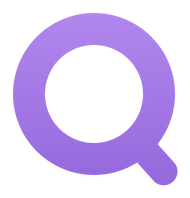
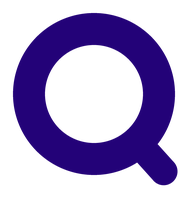
Set the landing page and app in Inconsolata and match the Sequence Q to Care.
The Q is the same size as the other letters and the same deep purple as Care in the Carescope logo.

diff --git a/apps/designer/src/pages/landing.css b/apps/designer/src/pages/landing.css
@@ -12,8 +12,8 @@
   --lp-navy: #0b1f44;
   --lp-green: #16a34a;
   --lp-green-deep: #15803d;
-  --lp-font: "Source Sans 3", "IBM Plex Sans", sans-serif;
-  --lp-display: "Sora", "Source Sans 3", sans-serif;
+  --lp-font: "Inconsolata", ui-monospace, monospace;
+  --lp-display: "Inconsolata", ui-monospace, monospace;
   --lp-gutter: 2.25rem;
   --lp-measure: 1250px;
   max-width: var(--lp-measure);
@@ -2925,7 +2925,7 @@
 }
 
 .lp-capability-index {
-  font-family: "IBM Plex Mono", monospace;
+  font-family: var(--lp-font);
   font-size: 0.64rem;
   font-weight: 600;
   color: var(--lp-blue);
@@ -3651,7 +3651,7 @@ img.lp-logo-sequence {
 .lp-core-chrome span {
   margin-left: auto;
   color: #8b919a;
-  font-family: Inter, "Source Sans 3", sans-serif;
+  font-family: var(--lp-font);
   font-size: 0.72rem;
   font-weight: 650;
   letter-spacing: 0.14em;
@@ -3665,7 +3665,7 @@ img.lp-logo-sequence {
 .lp-core-kicker {
   margin: 0;
   color: #8b919a;
-  font-family: Inter, "Source Sans 3", sans-serif;
+  font-family: var(--lp-font);
   font-size: 0.72rem;
   font-weight: 650;
   letter-spacing: 0.16em;
@@ -3675,7 +3675,7 @@ img.lp-logo-sequence {
 .lp-core-body h2 {
   margin: 0.32rem 0 0;
   color: #16181d;
-  font-family: Inter, "Sora", sans-serif;
+  font-family: var(--lp-font);
   font-size: clamp(2.05rem, 3.5vw, 3rem);
   font-weight: 650;
   letter-spacing: -0.048em;
@@ -3688,7 +3688,7 @@ img.lp-logo-sequence {
   gap: 0.3rem 0.15rem;
   margin: 0.6rem 0 0;
   color: #615d59;
-  font-family: Inter, "Source Sans 3", sans-serif;
+  font-family: var(--lp-font);
   font-size: 0.98rem;
   letter-spacing: -0.015em;
 }
@@ -3709,7 +3709,7 @@ img.lp-logo-sequence {
 
 .lp-core-stages li {
   color: #a39e98;
-  font-family: Inter, "Source Sans 3", sans-serif;
+  font-family: var(--lp-font);
   font-size: 0.8rem;
   font-weight: 600;
   letter-spacing: -0.015em;
@@ -3855,7 +3855,7 @@ img.lp-logo-sequence {
 .lp-core-float span {
   display: block;
   color: #8b919a;
-  font-family: Inter, "Source Sans 3", sans-serif;
+  font-family: var(--lp-font);
   font-size: 0.66rem;
   font-weight: 650;
   letter-spacing: 0.13em;
@@ -3866,7 +3866,7 @@ img.lp-logo-sequence {
   display: block;
   margin-top: 0.22rem;
   color: #16181d;
-  font-family: Inter, "Source Sans 3", sans-serif;
+  font-family: var(--lp-font);
   font-size: 0.98rem;
   font-weight: 650;
   letter-spacing: -0.02em;
@@ -3899,7 +3899,7 @@ img.lp-logo-sequence {
 .lp-core-caption {
   margin: 0.15rem 0 0;
   color: #615d59;
-  font-family: Inter, "Source Sans 3", sans-serif;
+  font-family: var(--lp-font);
   font-size: 1rem;
   letter-spacing: -0.018em;
   text-align: center;
@@ -4088,7 +4088,7 @@ img.lp-logo-sequence {
 .lp-logo-sequence,
 .lp-cycle-face h3,
 .lp-cycle-cost {
-  font-family: Inter, "Source Sans 3", sans-serif;
+  font-family: var(--lp-font);
   -webkit-font-smoothing: antialiased;
   -moz-osx-font-smoothing: grayscale;
   text-rendering: optimizeLegibility;
@@ -4534,7 +4534,7 @@ img.lp-logo-sequence {
   border-radius: 14px;
   background: #3b2463;
   color: #fff;
-  font-family: Inter, "Sora", sans-serif;
+  font-family: var(--lp-font);
   font-size: clamp(1.2rem, 1.7vw, 1.48rem);
   font-weight: 400;
   letter-spacing: -0.03em;
@@ -4782,7 +4782,7 @@ img.lp-logo-sequence {
 .lp-home .lp-nav-links > a,
 .lp-home .lp-modules-btn {
   color: #1c1e22;
-  font-family: Inter, "Source Sans 3", sans-serif;
+  font-family: var(--lp-font);
   font-size: 0.98rem;
   font-weight: 500;
   letter-spacing: -0.015em;
@@ -4814,7 +4814,7 @@ img.lp-logo-sequence {
   max-width: 18em;
   margin: 0;
   color: #16181d;
-  font-family: Inter, "Sora", sans-serif;
+  font-family: var(--lp-font);
   font-size: clamp(2.25rem, 4.15vw, 3.6rem);
   font-weight: 800;
   letter-spacing: -0.052em;
@@ -4825,7 +4825,7 @@ img.lp-logo-sequence {
   max-width: 34rem;
   margin: 1.45rem 0 0;
   color: #8b919a;
-  font-family: Inter, "Source Sans 3", sans-serif;
+  font-family: var(--lp-font);
   font-size: 1.05rem;
   font-weight: 400;
   line-height: 1.55;
@@ -4850,7 +4850,7 @@ img.lp-logo-sequence {
   border-radius: 999px;
   cursor: pointer;
   appearance: none;
-  font-family: Inter, "Source Sans 3", sans-serif;
+  font-family: var(--lp-font);
   font-size: 0.95rem;
   font-weight: 600;
   letter-spacing: -0.015em;
@@ -5020,7 +5020,7 @@ img.lp-logo-sequence {
 .lp-founder blockquote::after {
   display: block;
   color: #5b7ec9;
-  font-family: Georgia, "Times New Roman", serif;
+  font-family: var(--lp-font);
   font-size: 4.4rem;
   line-height: 0.7;
 }
@@ -5063,7 +5063,7 @@ img.lp-logo-sequence {
   background: #fff;
   box-shadow: 0 14px 32px rgba(11, 31, 68, 0.07);
   color: #16181d;
-  font-family: Inter, "Sora", sans-serif;
+  font-family: var(--lp-font);
   font-size: clamp(1.35rem, 2.35vw, 2.05rem);
   font-weight: 500;
   letter-spacing: -0.03em;
@@ -5148,7 +5148,7 @@ img.lp-logo-sequence {
   gap: 0.75rem;
   margin: 0 0 0.85rem;
   color: #1c2422;
-  font-family: Inter, "Sora", sans-serif;
+  font-family: var(--lp-font);
   font-size: 1.05rem;
   font-weight: 650;
   letter-spacing: -0.03em;
@@ -5296,7 +5296,7 @@ img.lp-logo-sequence {
 .lp-module-card strong {
   width: 100%;
   color: #16181d;
-  font-family: Inter, "Sora", sans-serif;
+  font-family: var(--lp-font);
   font-size: 0.98rem;
   font-weight: 700;
   letter-spacing: -0.03em;
@@ -5351,7 +5351,7 @@ img.lp-logo-sequence {
   background: none;
   box-shadow: none;
   color: #16181d;
-  font-family: Inter, "Sora", sans-serif;
+  font-family: var(--lp-font);
   font-size: clamp(1.45rem, 2.8vw, 2.48rem);
   font-weight: 800;
   letter-spacing: -0.052em;
@@ -5619,7 +5619,7 @@ img.lp-logo-sequence {
 .lp-price-fees strong,
 .lp-price-support strong {
   color: #0b1f44;
-  font-family: Inter, "Sora", sans-serif;
+  font-family: var(--lp-font);
   font-size: 1.45rem;
   font-weight: 800;
   letter-spacing: -0.04em;
@@ -5670,7 +5670,7 @@ img.lp-logo-sequence {
   background: #fff;
   box-shadow: 0 24px 60px rgba(11, 31, 68, 0.24);
   color: #16181d;
-  font-family: Inter, "Sora", sans-serif;
+  font-family: var(--lp-font);
   outline: none;
 }
 
@@ -6115,7 +6115,7 @@ img.lp-logo-sequence {
   margin: 0;
   padding-bottom: 0.7rem;
   color: #16181d;
-  font-family: Inter, "Sora", sans-serif;
+  font-family: var(--lp-font);
   font-size: clamp(1.7rem, 3vw, 2.45rem);
   font-weight: 400;
   letter-spacing: -0.04em;
@@ -6397,7 +6397,7 @@ img.lp-logo-sequence {
 .lp-friction-copy h2 {
   margin: 0;
   color: #16181d;
-  font-family: Inter, "Sora", sans-serif;
+  font-family: var(--lp-font);
   font-size: clamp(1.65rem, 2.5vw, 2.15rem);
   font-weight: 700;
   letter-spacing: -0.04em;
@@ -6509,7 +6509,7 @@ img.lp-logo-sequence {
 .lp-page .lp-it h2 {
   margin: 0 0 0.9rem;
   color: #16181d;
-  font-family: Inter, "Sora", sans-serif;
+  font-family: var(--lp-font);
   font-size: clamp(1.7rem, 3vw, 2.45rem);
   font-weight: 400;
   letter-spacing: -0.04em;
@@ -6585,7 +6585,7 @@ img.lp-logo-sequence {
   display: block;
   width: 100%;
   height: auto;
-  font-family: Inter, "Sora", sans-serif;
+  font-family: var(--lp-font);
 }
 
 .lp-it-link {

diff --git a/apps/designer/index.html b/apps/designer/index.html
@@ -14,7 +14,7 @@
     <link rel="preconnect" href="https://fonts.googleapis.com" />
     <link rel="preconnect" href="https://fonts.gstatic.com" crossorigin />
     <link
-      href="https://fonts.googleapis.com/css2?family=Inter:wght@400;500;600;700;800&family=Sora:wght@500;600;700;800&family=Source+Sans+3:wght@400;500;600;700&family=IBM+Plex+Mono:wght@400;500&family=IBM+Plex+Sans:wght@400;500;600;700&family=Fraunces:opsz,wght@9..144,500;9..144,700&display=swap"
+      href="https://fonts.googleapis.com/css2?family=Inconsolata:wght@400;500;600;700&display=swap"
       rel="stylesheet"
     />
   </head>

diff --git a/apps/designer/src/styles.css b/apps/designer/src/styles.css
@@ -18,9 +18,9 @@
   --info: #0284c7;
   --success: #059669;
   --canvas-dot: #d5deea;
-  --font-sans: "Source Sans 3", "IBM Plex Sans", sans-serif;
-  --font-display: "Sora", "Source Sans 3", sans-serif;
-  --font-mono: "IBM Plex Mono", ui-monospace, monospace;
+  --font-sans: "Inconsolata", ui-monospace, monospace;
+  --font-display: "Inconsolata", ui-monospace, monospace;
+  --font-mono: "Inconsolata", ui-monospace, monospace;
   --radius: 16px;
   --shadow: 0 12px 32px rgba(31, 41, 79, 0.06);
 }
